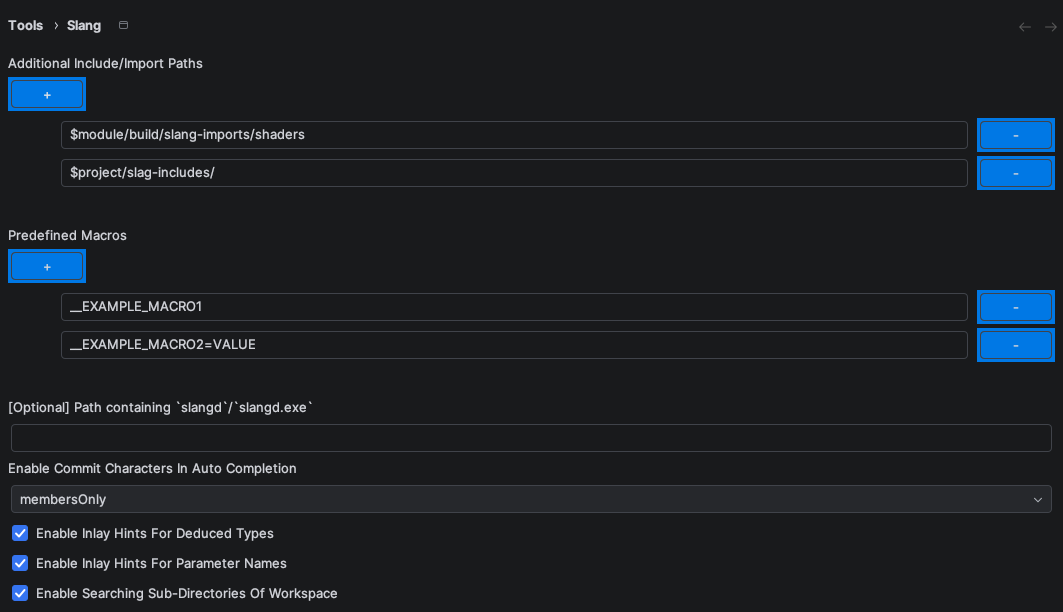
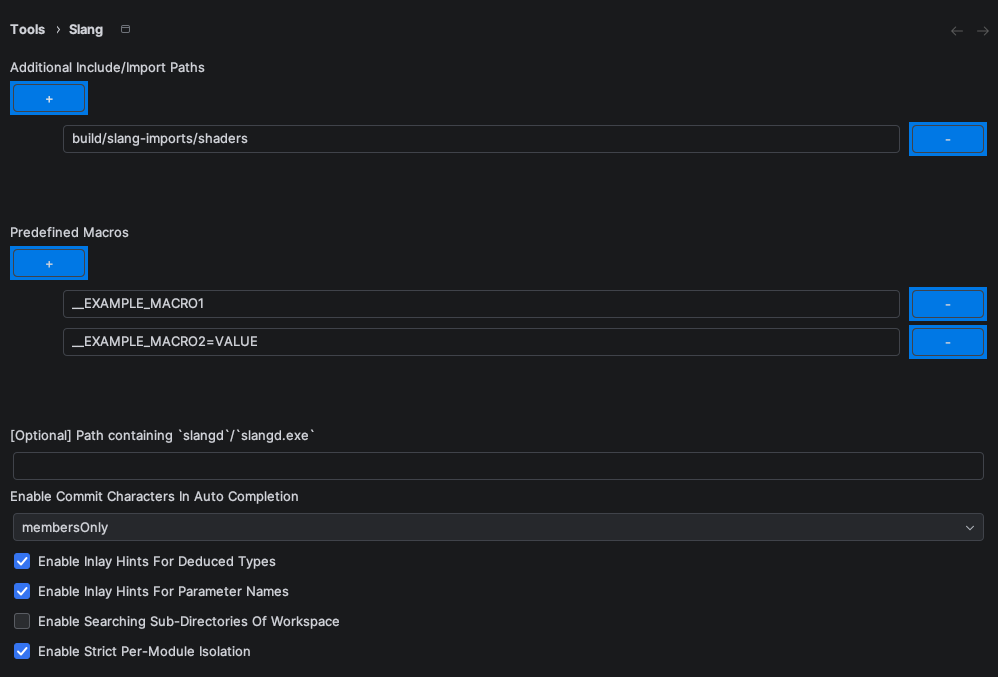
Tweak docs

diff --git a/README.md b/README.md
@@ -10,6 +10,13 @@
 ### Settings
 ![Settings](./images/settings.png)
 
+#### Module Isolation
+If you want slang files in one module not to be able to see slang files in other modules, you can enable module isolation in the settings.
+
+`Enable Searching Sub-Directories Of Workspace` will search only in the module.
+
+`Additional Include/Import Paths` will be relative to the module.
+
 ---
 
 ### Jetbrains plugin distribution page
